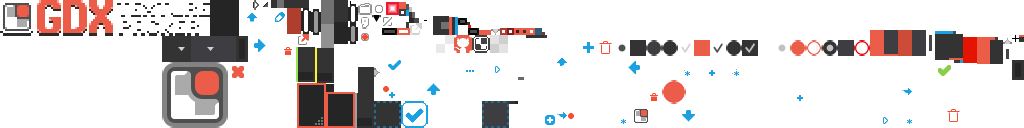
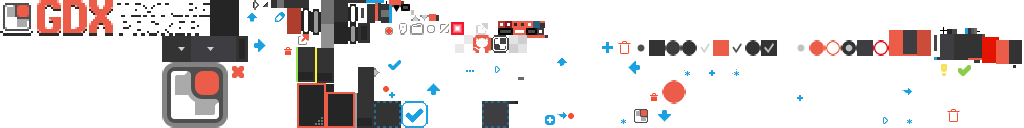
Pack warning notification clean up.

Changed region(s): [[0.5625, 0.2188, 1.0, 0.625], [0.3125, 0.0, 0.5312, 0.4375], [0.625, 0.875, 0.6875, 0.9375]]

diff --git a/core/src/com/crashinvaders/texturepackergui/controllers/packing/PackDialogController.java b/core/src/com/crashinvaders/texturepackergui/controllers/packing/PackDialogController.java
@@ -4,7 +4,6 @@ import com.badlogic.gdx.Gdx;
 import com.badlogic.gdx.Preferences;
 import com.badlogic.gdx.graphics.Color;
 import com.badlogic.gdx.math.MathUtils;
-import com.badlogic.gdx.scenes.scene2d.Actor;
 import com.badlogic.gdx.scenes.scene2d.Group;
 import com.badlogic.gdx.scenes.scene2d.Stage;
 import com.badlogic.gdx.scenes.scene2d.ui.ProgressBar;
@@ -173,7 +172,7 @@ public class PackDialogController implements ActionContainer {
         return result;
     }
 
-    private void showReopenLastDialogNotification(boolean hasWarnings) {
+    private void showReopenLastDialogNotification(boolean hasErrors, boolean hasWarnings) {
         final LmlParser parser = interfaceService.getParser();
         final ToastTable toastTable = new ToastTable();
         final String actionName = "showLastDialog";
@@ -183,21 +182,24 @@ public class PackDialogController implements ActionContainer {
             prevReopenDialogToast = null;
         }
 
-        parser.getData().addActorConsumer(actionName, new ActorConsumer<Void, Object>() {
-            @Override
-            public Void consume(Object actor) {
-                if (window != null) {
-                    window.show(stage);
-                }
-                toastTable.fadeOut();
-                return null;
-            }
-        });
+        parser.getData().addActorConsumer(actionName,
+                (ActorConsumer<Void, Object>) actor -> {
+                    if (window != null) {
+                        window.show(stage);
+
+                        PackProcessingListAdapter adapter = (PackProcessingListAdapter) listItems.getListView().getAdapter();
+                        if ((hasErrors || hasWarnings) && adapter.size() == 1) {
+                            adapter.getView(adapter.get(0)).showLogWindow();
+                        }
+                    }
+                    toastTable.fadeOut();
+                    return null;
+                });
 
         Group content = (Group)parser.parseTemplate(Gdx.files.internal("lml/toastReopenLastPackingDialog.lml")).first();
 
         if (hasWarnings) {
-            content.findActor("lblWarningHint").setVisible(true);
+            content.findActor("lnkWarningHint").setVisible(true);
         }
 
         parser.getData().removeActorConsumer(actionName);
@@ -222,8 +224,8 @@ public class PackDialogController implements ActionContainer {
 
     private class PackWorkerListener implements PackProcessingManager.Listener {
         final PackProcessingListAdapter adapter;
-        boolean errors = false;
-        boolean warnings = false;
+        boolean hasErrors = false;
+        boolean hasWarnings = false;
         int finishedCounter = 0;
 
         public PackWorkerListener() {
@@ -245,20 +247,20 @@ public class PackDialogController implements ActionContainer {
 
             window.closeOnEscape();
 
-            if (!errors && cbAutoClose.isChecked()) {
+            if (!hasErrors && cbAutoClose.isChecked()) {
                 window.hide();
-                showReopenLastDialogNotification(warnings);
+                showReopenLastDialogNotification(hasErrors, hasWarnings);
             }
 
-            // If there is only one pack, show log on error/warning
-            if ((errors || warnings) && adapter.size() == 1) {
+            // If there is only one pack, show log on error.
+            if (hasErrors && adapter.size() == 1) {
                 adapter.getView(adapter.get(0)).showLogWindow();
             }
 
-            // Indicate total result by changing progress bar color
+            // Indicate total result by changing progress bar color.
             {
                 ProgressBar.ProgressBarStyle style = new ProgressBar.ProgressBarStyle(progressBar.getStyle());
-                Drawable fill = errors ?
+                Drawable fill = hasErrors ?
                         VisUI.getSkin().getDrawable("progressBarErr") :
                         VisUI.getSkin().getDrawable("progressBarSucc");
                 style.knob = fill;
@@ -276,16 +278,16 @@ public class PackDialogController implements ActionContainer {
             onFinished(node);
 
             adapter.getView(node).setToError(e);
-            errors = true;
+            hasErrors = true;
         }
 
         @Override
         public void onSuccess(PackProcessingNode node) {
             onFinished(node);
 
-            warnings |= node.getMetadata(PackProcessingNode.META_HAS_WARNINGS, false);
+            this.hasWarnings |= node.getMetadata(PackProcessingNode.META_HAS_WARNINGS, false);
 
-            adapter.getView(node).setToSuccess();
+            adapter.getView(node).setToSuccess(hasWarnings);
         }
 
         private void onFinished(final PackProcessingNode node) {

diff --git a/core/src/com/crashinvaders/texturepackergui/controllers/packing/processors/PackingProcessor.java b/core/src/com/crashinvaders/texturepackergui/controllers/packing/processors/PackingProcessor.java
@@ -39,15 +39,15 @@ public class PackingProcessor implements PackProcessor {
 
         ProjectSettingsModel projSettings = node.getProject().getSettings();
         String settingsOrigExtension = pack.getSettings().atlasExtension;
-        performPacking(projSettings, pack, pageFileWriter);
+        performPacking(node, projSettings, pack, pageFileWriter);
         pack.getSettings().atlasExtension = settingsOrigExtension;
 
         System.out.println("Packing is done");
     }
     
-    private void performPacking(ProjectSettingsModel projSettings, PackModel packModel,
+    private void performPacking(PackProcessingNode node, ProjectSettingsModel projSettings, PackModel packModel,
                                 PageFileWriter pageFileWriter) throws Exception {
-        Array<ImageEntry> imageEntries = collectImageFiles(projSettings, packModel);
+        Array<ImageEntry> imageEntries = collectImageFiles(node, projSettings, packModel);
         if (imageEntries.size == 0) {
             throw new IllegalStateException("No images to pack");
         }
@@ -66,8 +66,8 @@ public class PackingProcessor implements PackProcessor {
         packer.pack(new File(packModel.getOutputDir()), filename);
     }
 
-    private static Array<ImageEntry> collectImageFiles(ProjectSettingsModel projSettings, PackModel packModel) {
-        final ImageEntryList images = new ImageEntryList();
+    private static Array<ImageEntry> collectImageFiles(PackProcessingNode node, ProjectSettingsModel projSettings, PackModel packModel) {
+        final ImageEntryList images = new ImageEntryList(node);
         Array<InputFile> inputFiles = new Array<>(packModel.getInputFiles());
         inputFiles.sort(new Comparator<InputFile>() {
             @Override
@@ -94,6 +94,7 @@ public class PackingProcessor implements PackProcessor {
                     System.err.printf(
                             "[text-yellow]WARNING: Input directory doesn't exist: \"%s\"%n[]",
                             inputFile.getFileHandle().path());
+                    node.setMetadata(PackProcessingNode.META_HAS_WARNINGS, true);
                     continue;
                 }
 
@@ -265,11 +266,18 @@ public class PackingProcessor implements PackProcessor {
     private static class ImageEntryList {
         private final ObjectSet<ImageEntry> imageSet = new ObjectSet<>();
 
+        private final PackProcessingNode node;
+
+        public ImageEntryList(PackProcessingNode node) {
+            this.node = node;
+        }
+
         public boolean add(ImageEntry image) {
             if (!image.fileHandle.exists()) {
                 System.err.println(String.format(
                         "[text-yellow]WARNING: Input file doesn't exist: \"%s\"[]",
                         image.fileHandle.path()));
+                node.setMetadata(PackProcessingNode.META_HAS_WARNINGS, true);
                 return false;
             }
 
@@ -279,6 +287,7 @@ public class PackingProcessor implements PackProcessor {
                         "[text-yellow]WARNING: Region: \"%s\" is listed twice. The last added configuration will be used - \"%s\"[]",
                         image.regionName,
                         image.fileHandle.path()));
+                node.setMetadata(PackProcessingNode.META_HAS_WARNINGS, true);
             }
             return imageSet.add(image);
         }

diff --git a/core/src/com/crashinvaders/texturepackergui/controllers/packing/ProcessingNodeListViewItem.java b/core/src/com/crashinvaders/texturepackergui/controllers/packing/ProcessingNodeListViewItem.java
@@ -4,10 +4,12 @@ import com.badlogic.gdx.Gdx;
 import com.badlogic.gdx.math.MathUtils;
 import com.badlogic.gdx.scenes.scene2d.Actor;
 import com.badlogic.gdx.scenes.scene2d.Group;
+import com.badlogic.gdx.scenes.scene2d.InputEvent;
 import com.badlogic.gdx.scenes.scene2d.ui.Button;
 import com.badlogic.gdx.scenes.scene2d.ui.Cell;
 import com.badlogic.gdx.scenes.scene2d.ui.Container;
 import com.badlogic.gdx.scenes.scene2d.utils.ChangeListener;
+import com.badlogic.gdx.scenes.scene2d.utils.ClickListener;
 import com.badlogic.gdx.utils.Align;
 import com.badlogic.gdx.utils.Array;
 import com.badlogic.gdx.utils.I18NBundle;
@@ -68,12 +70,14 @@ class ProcessingNodeListViewItem extends Container<VisTable> {
     }
 
     public void setToError(Exception e) {
-        imgStateIndicator.setFrames(Array.with(VisUI.getSkin().getDrawable("custom/ic-proc-error")));
+        imgStateIndicator.setFrames(Array.with(VisUI.getSkin()
+                .getDrawable("custom/ic-proc-error")));
         imgStateIndicator.setCurrentFrame(0);
     }
 
-    public void setToSuccess() {
-        imgStateIndicator.setFrames(Array.with(VisUI.getSkin().getDrawable("custom/ic-proc-success")));
+    public void setToSuccess(boolean hasWarnings) {
+        imgStateIndicator.setFrames(Array.with(VisUI.getSkin()
+                .getDrawable(hasWarnings ? "custom/ic-proc-ok-warn" : "custom/ic-proc-success")));
         imgStateIndicator.setCurrentFrame(0);
     }
 

diff --git a/core/src/com/crashinvaders/texturepackergui/controllers/packing/processors/PngtasticCompressionProcessor.java b/core/src/com/crashinvaders/texturepackergui/controllers/packing/processors/PngtasticCompressionProcessor.java
@@ -67,7 +67,7 @@ public class PngtasticCompressionProcessor implements PackProcessor {
                 float localCompressionRate = (optimizerResult.getOptimizedFileSize() - optimizerResult.getOriginalFileSize()) / (float) optimizerResult.getOriginalFileSize();
                 compressionRate += localCompressionRate / pngOptimizer.getResults().size();
             }
-            node.addMetadata(PackProcessingNode.META_COMPRESSION_RATE, compressionRate);
+            node.setMetadata(PackProcessingNode.META_COMPRESSION_RATE, compressionRate);
         }
 
         System.out.println("Pngtastic compression finished");

diff --git a/core/src/com/crashinvaders/texturepackergui/controllers/packing/processors/ZopfliCompressionProcessor.java b/core/src/com/crashinvaders/texturepackergui/controllers/packing/processors/ZopfliCompressionProcessor.java
@@ -55,7 +55,7 @@ public class ZopfliCompressionProcessor implements PackProcessor {
                 float localCompressionRate = (optimizerResult.getOptimizedFileSize() - optimizerResult.getOriginalFileSize()) / (float) optimizerResult.getOriginalFileSize();
                 compressionRate += localCompressionRate / pngOptimizer.getResults().size();
             }
-            node.addMetadata(PackProcessingNode.META_COMPRESSION_RATE, compressionRate);
+            node.setMetadata(PackProcessingNode.META_COMPRESSION_RATE, compressionRate);
         }
 
         System.out.println("Zopfli compression finished");

diff --git a/core/src/com/crashinvaders/texturepackergui/controllers/packing/processors/TotalTimeMetadataProcessor.java b/core/src/com/crashinvaders/texturepackergui/controllers/packing/processors/TotalTimeMetadataProcessor.java
@@ -9,7 +9,7 @@ public class TotalTimeMetadataProcessor implements PackProcessor {
     @Override
     public void processPackage(PackProcessingNode node) throws Exception {
         long totalTime = (long)node.getMetadata(PackProcessingNode.META_END_TIME) - (long)node.getMetadata(PackProcessingNode.META_START_TIME);
-        node.addMetadata(PackProcessingNode.META_TOTAL_TIME, totalTime);
+        node.setMetadata(PackProcessingNode.META_TOTAL_TIME, totalTime);
 
         System.out.println(String.format(Locale.US, "Total processing time: %.2fsec", totalTime/1000000000D));
     }

diff --git a/core/src/com/crashinvaders/texturepackergui/controllers/packing/processors/TinifyCompressionProcessor.java b/core/src/com/crashinvaders/texturepackergui/controllers/packing/processors/TinifyCompressionProcessor.java
@@ -54,7 +54,7 @@ public class TinifyCompressionProcessor implements PackProcessor {
 
             System.out.println(String.format(Locale.US, "%s compressed for %+.2f%%", page.textureFile.name(), pageCompression*100f));
         }
-        node.addMetadata(PackProcessingNode.META_COMPRESSION_RATE, compressionRateSum / atlasData.getPages().size);
+        node.setMetadata(PackProcessingNode.META_COMPRESSION_RATE, compressionRateSum / atlasData.getPages().size);
 
         System.out.println("Tinify compression finished");
     }

diff --git a/core/src/com/crashinvaders/texturepackergui/controllers/packing/processors/WarningMetadataProcessor.java b/core/src/com/crashinvaders/texturepackergui/controllers/packing/processors/WarningMetadataProcessor.java
@@ -6,6 +6,10 @@ import com.crashinvaders.texturepackergui.utils.packprocessing.PackProcessor;
 public class WarningMetadataProcessor implements PackProcessor {
     @Override
     public void processPackage(PackProcessingNode node) throws Exception {
-        node.addMetadata(PackProcessingNode.META_HAS_WARNINGS, true);
+        boolean hasWarnings = node.getMetadata(PackProcessingNode.META_HAS_WARNINGS, false);
+        if (hasWarnings)
+            return;
+
+        // Do nothing for now.
     }
 }

diff --git a/core/src/com/crashinvaders/texturepackergui/controllers/packing/processors/PngquantCompressionProcessor.java b/core/src/com/crashinvaders/texturepackergui/controllers/packing/processors/PngquantCompressionProcessor.java
@@ -87,7 +87,7 @@ public class PngquantCompressionProcessor implements PackProcessor {
                     }
                 }
             }
-            node.addMetadata(PackProcessingNode.META_COMPRESSION_RATE, compressionRateSum / atlasData.getPages().size);
+            node.setMetadata(PackProcessingNode.META_COMPRESSION_RATE, compressionRateSum / atlasData.getPages().size);
         }
 
         System.out.println("PNG8 compression finished");

diff --git a/core/src/com/crashinvaders/texturepackergui/controllers/packing/processors/StartTimeMetadataProcessor.java b/core/src/com/crashinvaders/texturepackergui/controllers/packing/processors/StartTimeMetadataProcessor.java
@@ -6,6 +6,6 @@ import com.crashinvaders.texturepackergui.utils.packprocessing.PackProcessor;
 public class StartTimeMetadataProcessor implements PackProcessor {
     @Override
     public void processPackage(PackProcessingNode node) throws Exception {
-        node.addMetadata(PackProcessingNode.META_START_TIME, System.nanoTime());
+        node.setMetadata(PackProcessingNode.META_START_TIME, System.nanoTime());
     }
 }

diff --git a/core/src/com/crashinvaders/texturepackergui/controllers/packing/processors/FileSizeMetadataProcessor.java b/core/src/com/crashinvaders/texturepackergui/controllers/packing/processors/FileSizeMetadataProcessor.java
@@ -28,7 +28,7 @@ public class FileSizeMetadataProcessor implements PackProcessor {
             long pageSize = page.textureFile.length();
             totalSize += pageSize;
         }
-        node.addMetadata(PackProcessingNode.META_FILE_SIZE, totalSize);
+        node.setMetadata(PackProcessingNode.META_FILE_SIZE, totalSize);
 
         System.out.println("Total pack files size is " + totalSize + " bytes");
     }

diff --git a/core/src/com/crashinvaders/texturepackergui/controllers/packing/processors/TePng8CompressionProcessor.java b/core/src/com/crashinvaders/texturepackergui/controllers/packing/processors/TePng8CompressionProcessor.java
@@ -58,7 +58,7 @@ public class TePng8CompressionProcessor implements PackProcessor {
                     }
                 }
             }
-            node.addMetadata(PackProcessingNode.META_COMPRESSION_RATE, compressionRateSum / atlasData.getPages().size);
+            node.setMetadata(PackProcessingNode.META_COMPRESSION_RATE, compressionRateSum / atlasData.getPages().size);
         }
         png8.dispose();
 
